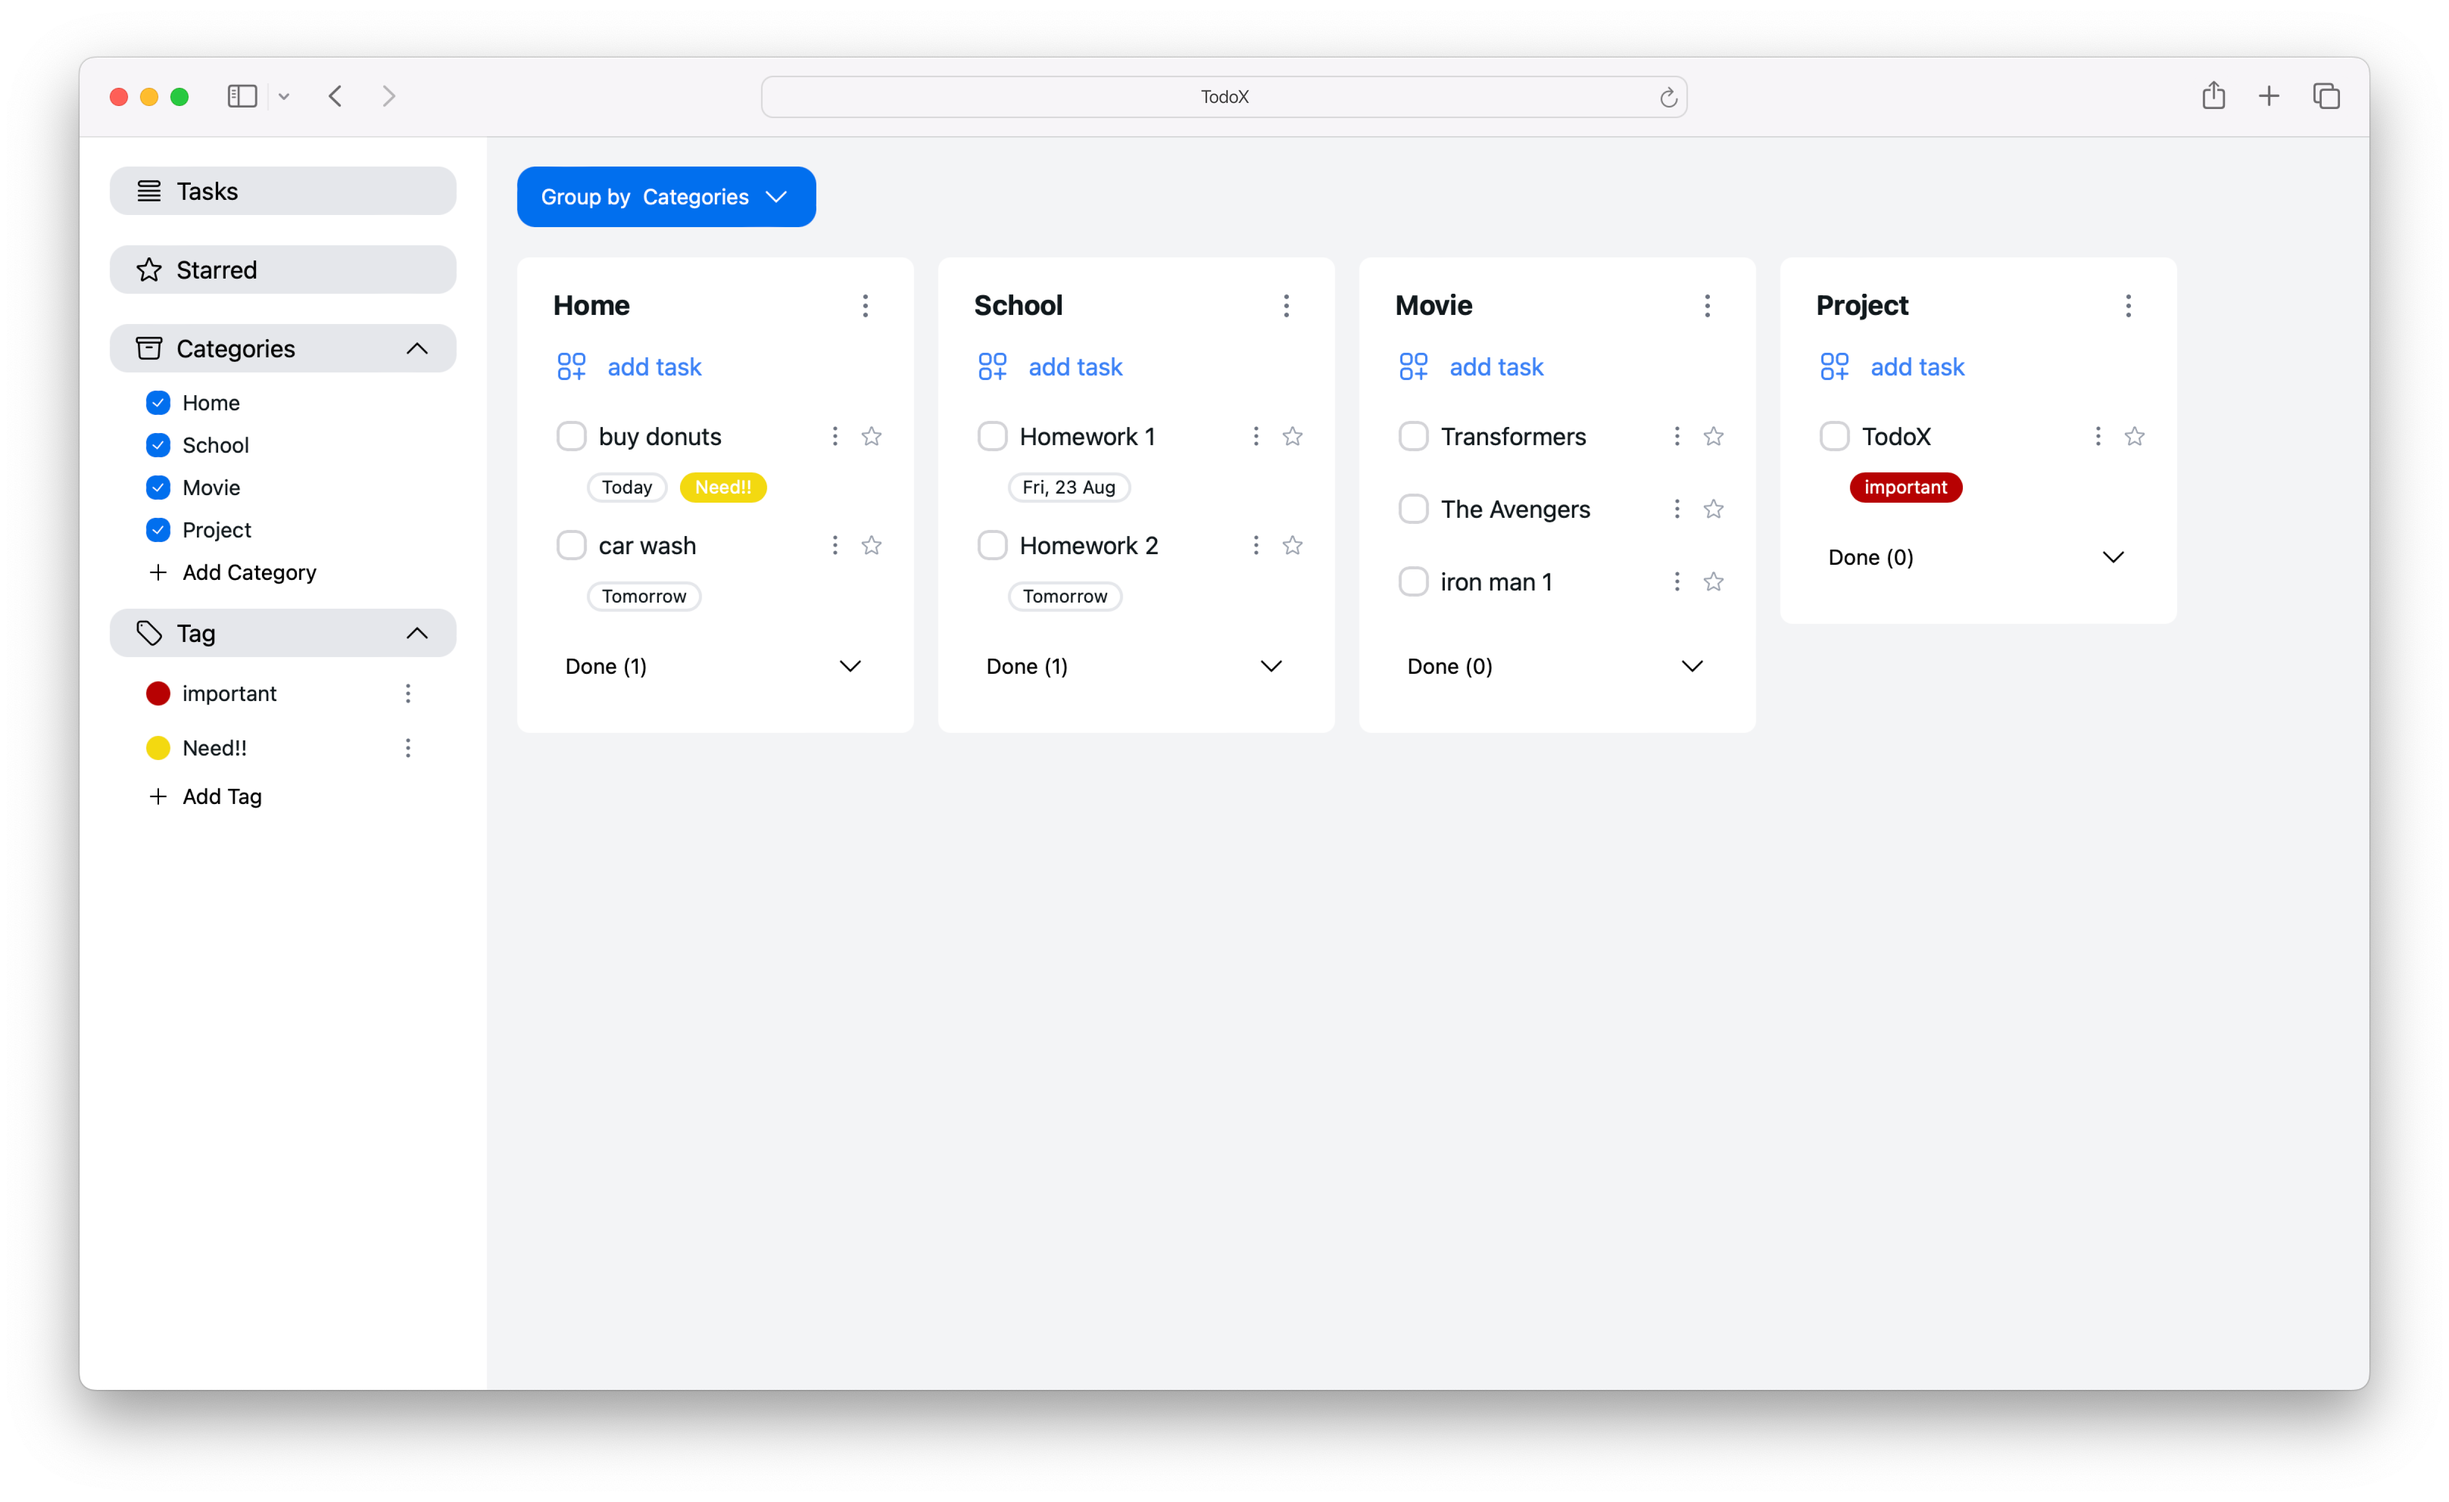
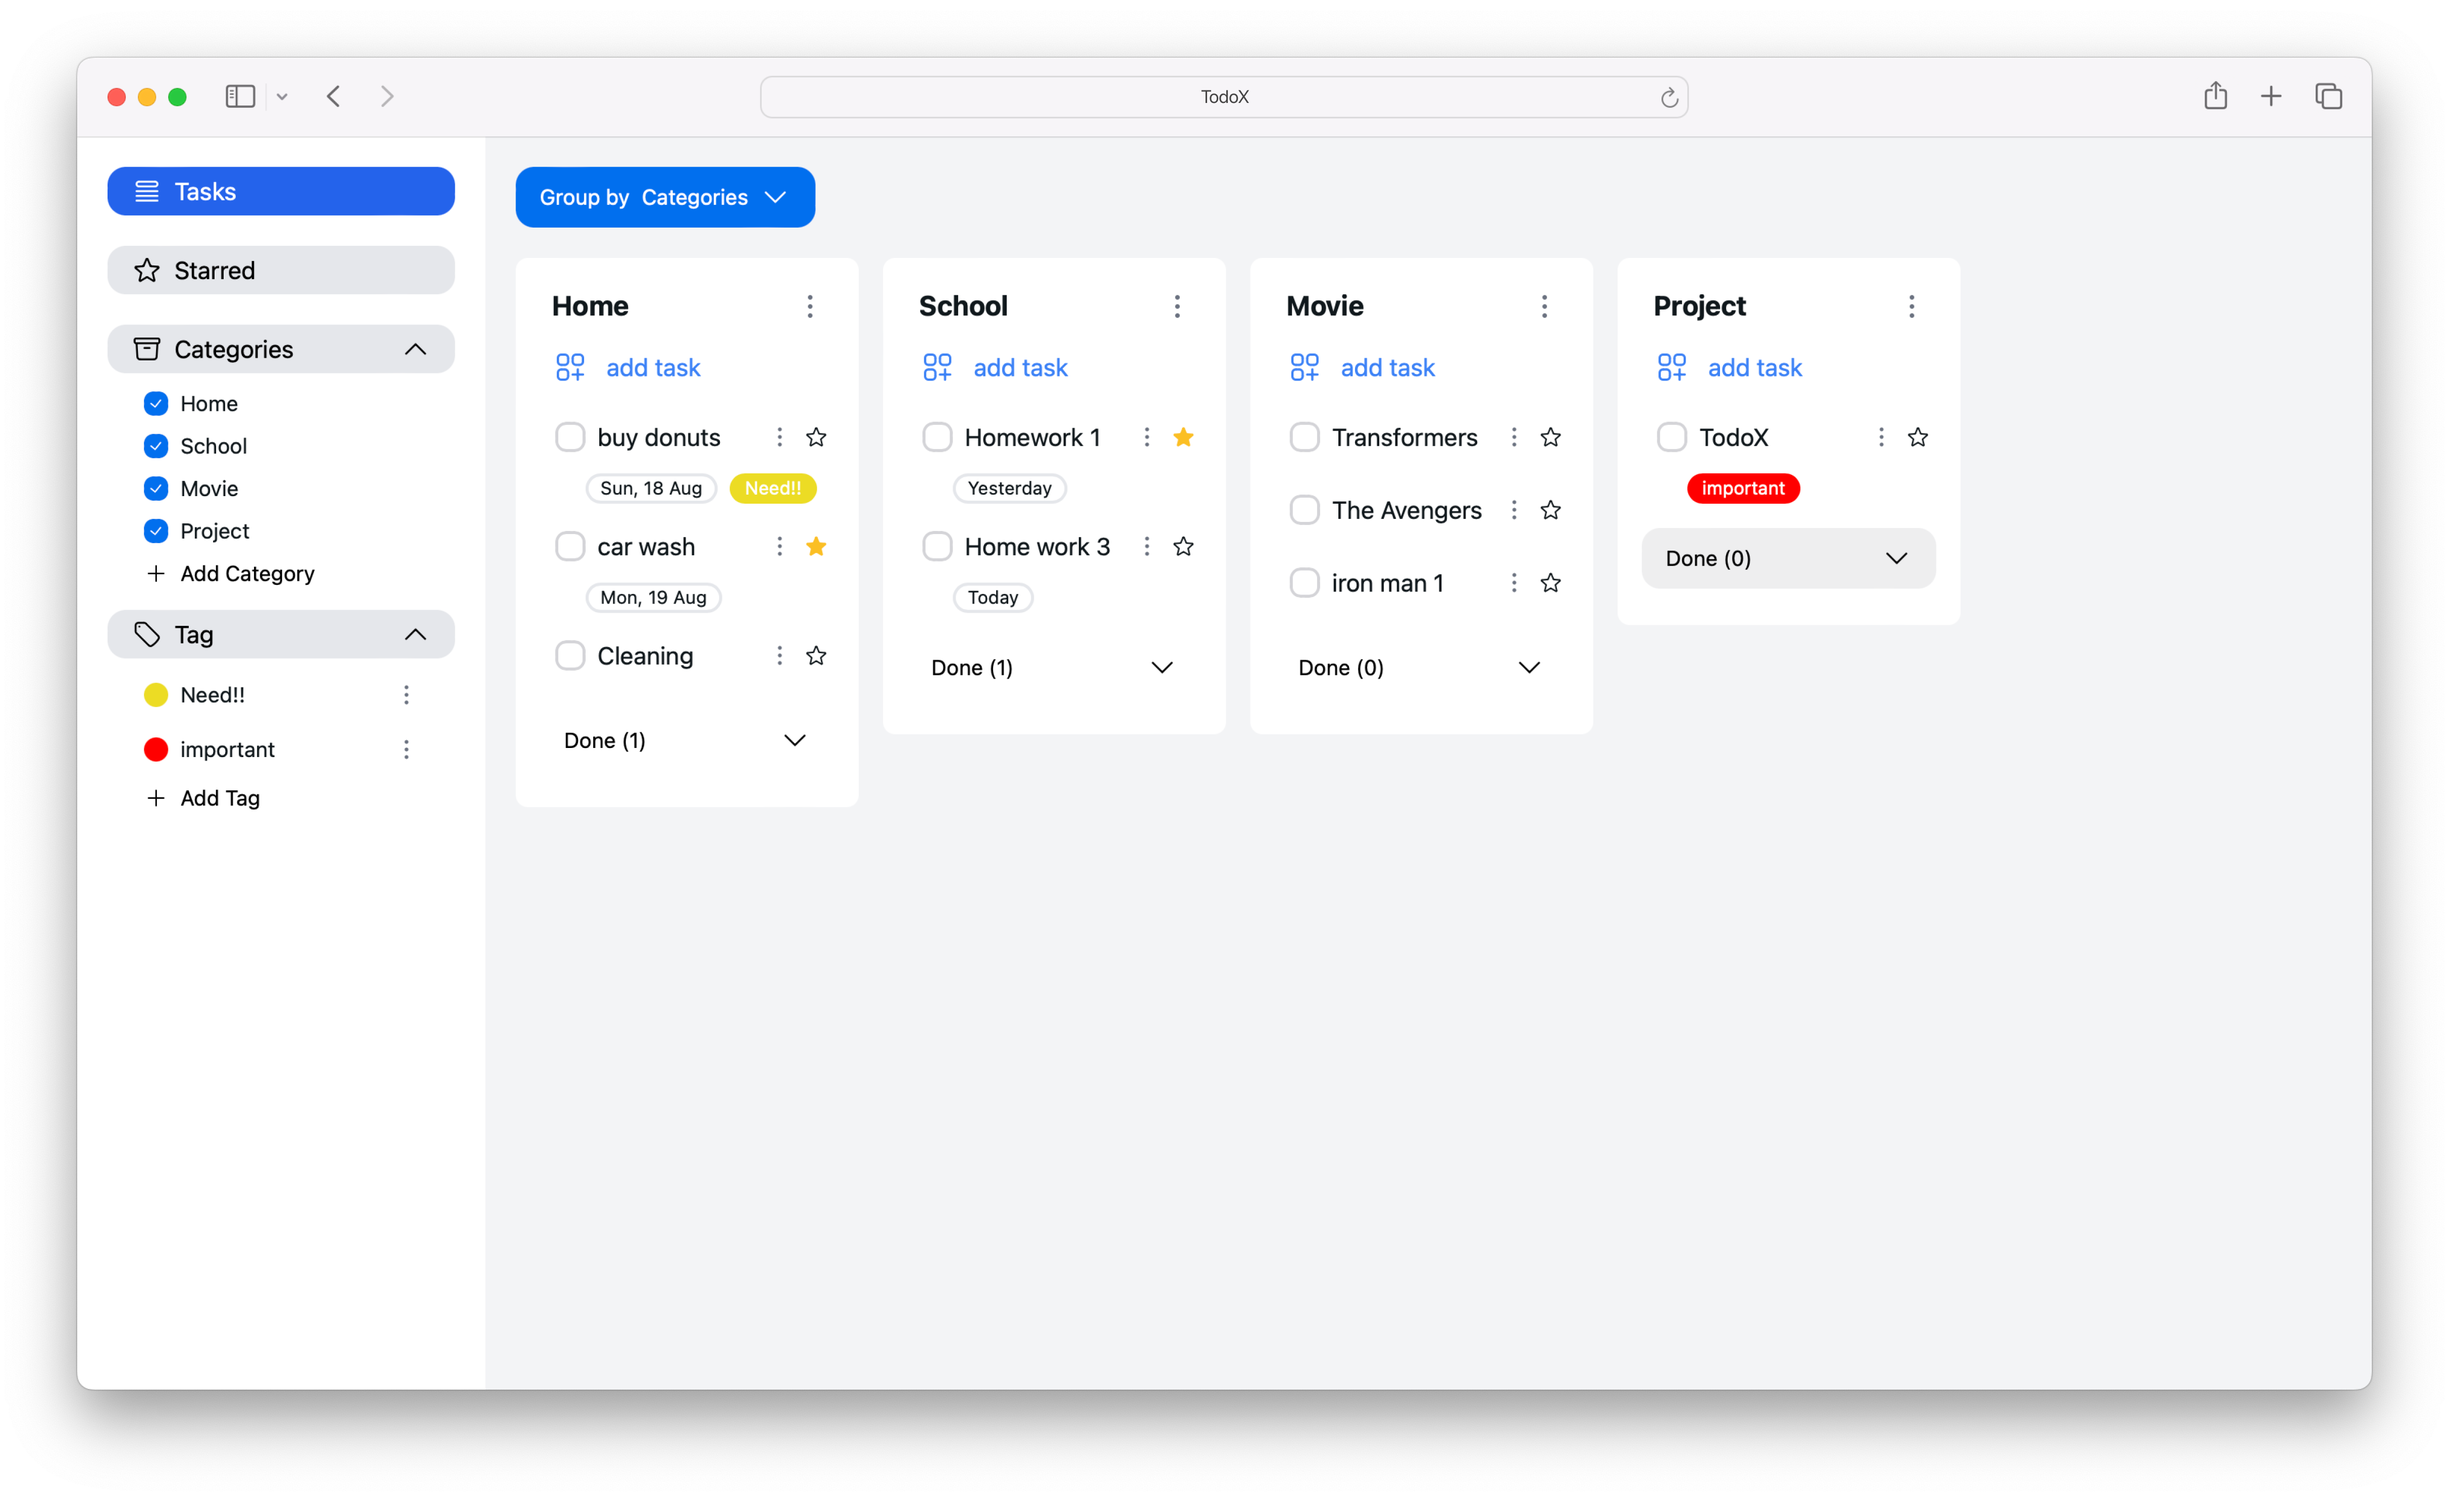
feat(sidebar): add active color on tasks and starred

diff --git a/components/Sidebar.tsx b/components/Sidebar.tsx
@@ -106,9 +106,13 @@ const Sidebar = () => {
 }
 
 const Button: React.FC<ButtonProps> = ({ children, icon, ...props }) => {
+  const show = useAppSelector((state) => state.show)
+  const active =
+    children?.toString().toLowerCase() == show && "bg-blue-600 text-white"
+
   return (
     <NextButton
-      className="bg-gray-200 w-full h-8 flex justify-between text-base"
+      className={`bg-gray-200 w-full h-8 flex justify-between text-base ${active}`}
       {...props}
     >
       <div className="flex items-center space-x-2">

diff --git a/README.md b/README.md
@@ -28,5 +28,3 @@ npm run dev
 - Remind Notification
 - Full Responsive
 - PWA (Progressive Web App)
-- Group Task By Date
-- Filter Task with Star (importance)
